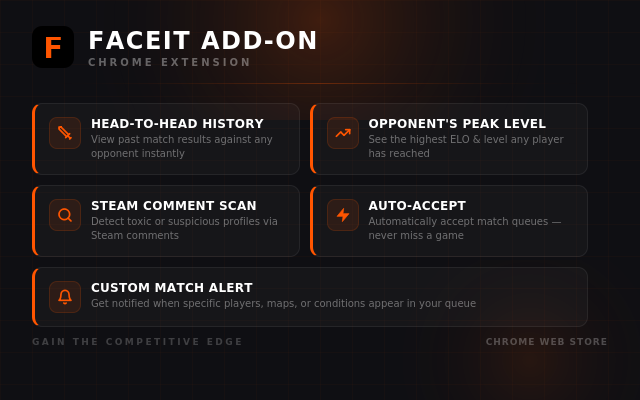
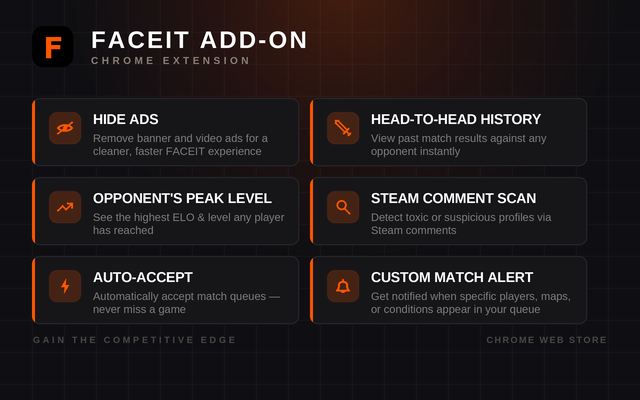
chore: Update google media

diff --git a/README.md b/README.md
@@ -9,6 +9,7 @@ A Chrome/Chromium browser extension that enhances your FACEIT gaming experience 
 - **Match History vs Opponents**: See your win/loss record against each opponent in the current match, with links to previous match rooms
 - **Max Skill Level**: Displays the highest FACEIT level each opponent has ever reached
 - **Suspicious Steam Comments**: Scans opponent Steam profiles for comments containing keywords like "-rep", "wall", "hack", "cheat"
+- **Hide Ads**: Removes ad placements from FACEIT pages, keeping them hidden through page resizes and re-renders
 
 All features can be individually toggled on or off from the extension popup.
 
